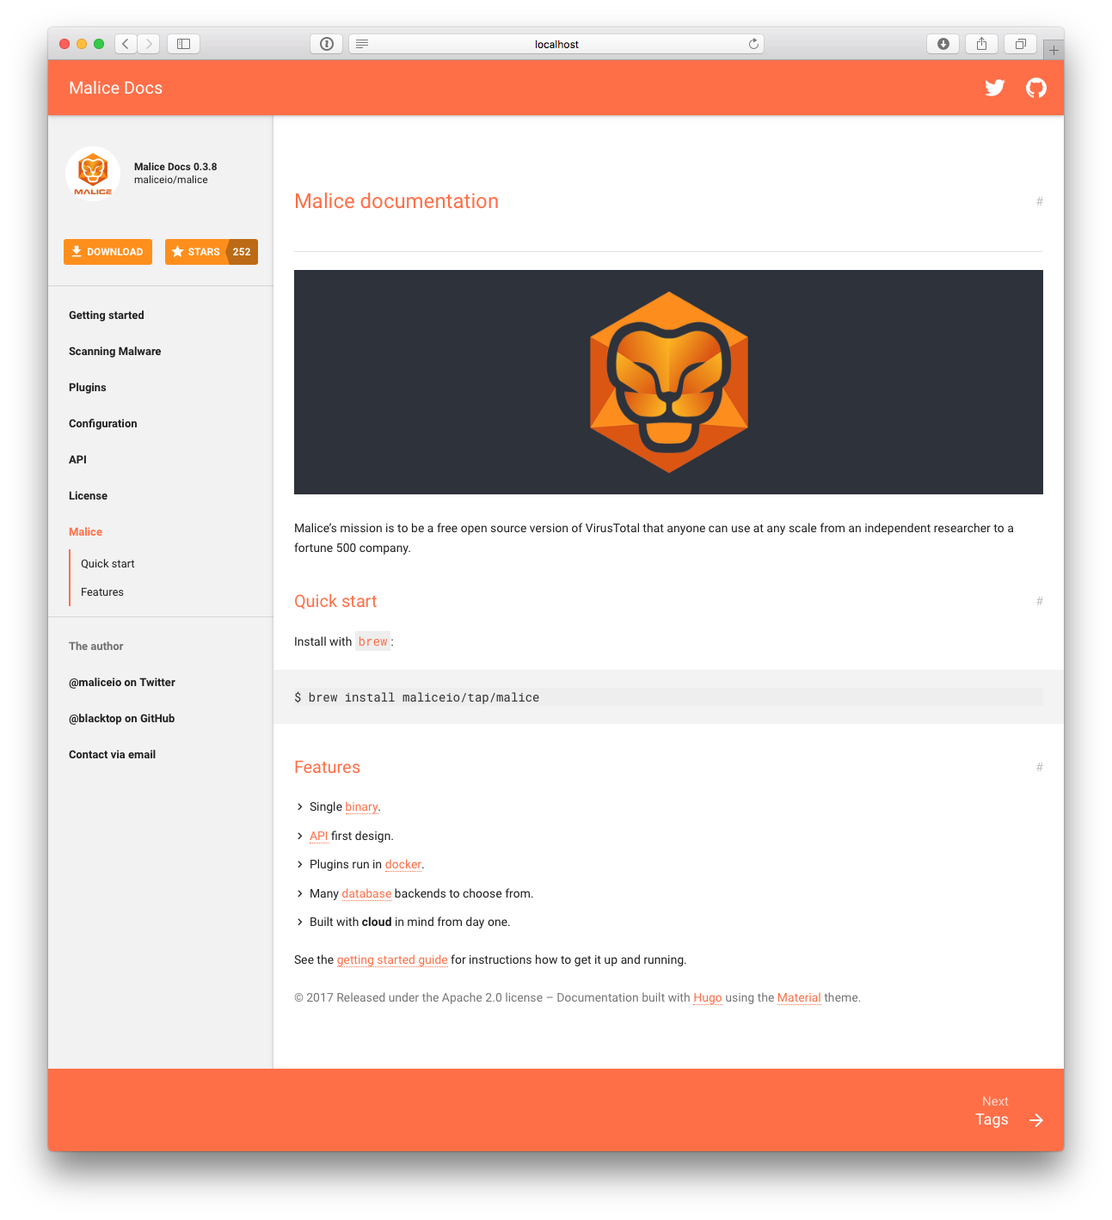
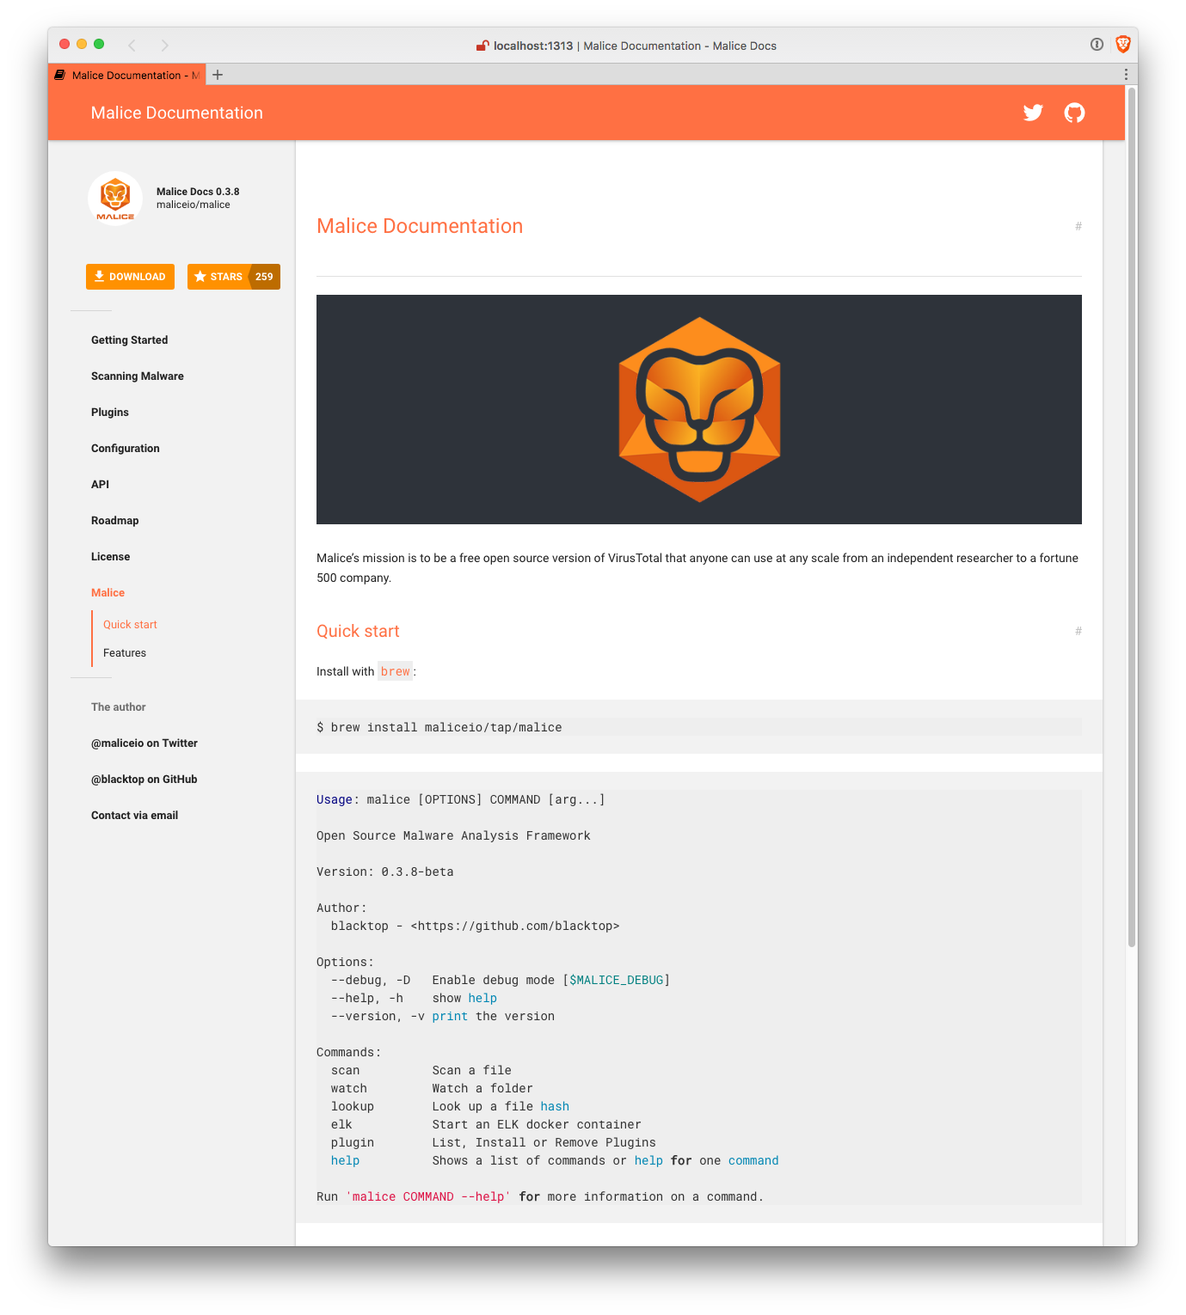
tweaks and fixes

diff --git a/static/stylesheets/palettes.css b/static/stylesheets/palettes.css
@@ -1,0 +1,1 @@
+@supports (-webkit-appearance:none){.palette-primary-red{background:#e84e40}}.palette-primary-red .footer,.palette-primary-red .header{background:#e84e40}.palette-primary-red .drawer .toc a.current,.palette-primary-red .drawer .toc a:focus,.palette-primary-red .drawer .toc a:hover{color:#e84e40}.palette-primary-red .drawer .anchor a{border-left:2px solid #e84e40}.ios.standalone .palette-primary-red .article{background:-webkit-linear-gradient(top,#fff 50%,#e84e40 0);background:linear-gradient(180deg,#fff 50%,#e84e40 0)}.palette-primary-red .article a,.palette-primary-red .article code,.palette-primary-red .article h1,.palette-primary-red .article h2{color:#e84e40}.palette-primary-red .article .headerlink{color:rgba(0,0,0,.26)}.palette-primary-red .article table th{background:#ee7a70}.palette-primary-red .results .meta{background:#e84e40}@supports (-webkit-appearance:none){.palette-primary-pink{background:#e91e63}}.palette-primary-pink .footer,.palette-primary-pink .header{background:#e91e63}.palette-primary-pink .drawer .toc a.current,.palette-primary-pink .drawer .toc a:focus,.palette-primary-pink .drawer .toc a:hover{color:#e91e63}.palette-primary-pink .drawer .anchor a{border-left:2px solid #e91e63}.ios.standalone .palette-primary-pink .article{background:-webkit-linear-gradient(top,#fff 50%,#e91e63 0);background:linear-gradient(180deg,#fff 50%,#e91e63 0)}.palette-primary-pink .article a,.palette-primary-pink .article code,.palette-primary-pink .article h1,.palette-primary-pink .article h2{color:#e91e63}.palette-primary-pink .article .headerlink{color:rgba(0,0,0,.26)}.palette-primary-pink .article table th{background:#ef568a}.palette-primary-pink .results .meta{background:#e91e63}@supports (-webkit-appearance:none){.palette-primary-purple{background:#ab47bc}}.palette-primary-purple .footer,.palette-primary-purple .header{background:#ab47bc}.palette-primary-purple .drawer .toc a.current,.palette-primary-purple .drawer .toc a:focus,.palette-primary-purple .drawer .toc a:hover{color:#ab47bc}.palette-primary-purple .drawer .anchor a{border-left:2px solid #ab47bc}.ios.standalone .palette-primary-purple .article{background:-webkit-linear-gradient(top,#fff 50%,#ab47bc 0);background:linear-gradient(180deg,#fff 50%,#ab47bc 0)}.palette-primary-purple .article a,.palette-primary-purple .article code,.palette-primary-purple .article h1,.palette-primary-purple .article h2{color:#ab47bc}.palette-primary-purple .article .headerlink{color:rgba(0,0,0,.26)}.palette-primary-purple .article table th{background:#c075cd}.palette-primary-purple .results .meta{background:#ab47bc}@supports (-webkit-appearance:none){.palette-primary-deep-purple{background:#7e57c2}}.palette-primary-deep-purple .footer,.palette-primary-deep-purple .header{background:#7e57c2}.palette-primary-deep-purple .drawer .toc a.current,.palette-primary-deep-purple .drawer .toc a:focus,.palette-primary-deep-purple .drawer .toc a:hover{color:#7e57c2}.palette-primary-deep-purple .drawer .anchor a{border-left:2px solid #7e57c2}.ios.standalone .palette-primary-deep-purple .article{background:-webkit-linear-gradient(top,#fff 50%,#7e57c2 0);background:linear-gradient(180deg,#fff 50%,#7e57c2 0)}.palette-primary-deep-purple .article a,.palette-primary-deep-purple .article code,.palette-primary-deep-purple .article h1,.palette-primary-deep-purple .article h2{color:#7e57c2}.palette-primary-deep-purple .article .headerlink{color:rgba(0,0,0,.26)}.palette-primary-deep-purple .article table th{background:#9e81d1}.palette-primary-deep-purple .results .meta{background:#7e57c2}@supports (-webkit-appearance:none){.palette-primary-indigo{background:#3f51b5}}.palette-primary-indigo .footer,.palette-primary-indigo .header{background:#3f51b5}.palette-primary-indigo .drawer .toc a.current,.palette-primary-indigo .drawer .toc a:focus,.palette-primary-indigo .drawer .toc a:hover{color:#3f51b5}.palette-primary-indigo .drawer .anchor a{border-left:2px solid #3f51b5}.ios.standalone .palette-primary-indigo .article{background:-webkit-linear-gradient(top,#fff 50%,#3f51b5 0);background:linear-gradient(180deg,#fff 50%,#3f51b5 0)}.palette-primary-indigo .article a,.palette-primary-indigo .article code,.palette-primary-indigo .article h1,.palette-primary-indigo .article h2{color:#3f51b5}.palette-primary-indigo .article .headerlink{color:rgba(0,0,0,.26)}.palette-primary-indigo .article table th{background:#6f7dc8}.palette-primary-indigo .results .meta{background:#3f51b5}@supports (-webkit-appearance:none){.palette-primary-blue{background:#5677fc}}.palette-primary-blue .footer,.palette-primary-blue .header{background:#5677fc}.palette-primary-blue .drawer .toc a.current,.palette-primary-blue .drawer .toc a:focus,.palette-primary-blue .drawer .toc a:hover{color:#5677fc}.palette-primary-blue .drawer .anchor a{border-left:2px solid #5677fc}.ios.standalone .palette-primary-blue .article{background:-webkit-linear-gradient(top,#fff 50%,#5677fc 0);background:linear-gradient(180deg,#fff 50%,#5677fc 0)}.palette-primary-blue .article a,.palette-primary-blue .article code,.palette-primary-blue .article h1,.palette-primary-blue .article h2{color:#5677fc}.palette-primary-blue .article .headerlink{color:rgba(0,0,0,.26)}.palette-primary-blue .article table th{background:#8099fd}.palette-primary-blue .results .meta{background:#5677fc}@supports (-webkit-appearance:none){.palette-primary-light-blue{background:#03a9f4}}.palette-primary-light-blue .footer,.palette-primary-light-blue .header{background:#03a9f4}.palette-primary-light-blue .drawer .toc a.current,.palette-primary-light-blue .drawer .toc a:focus,.palette-primary-light-blue .drawer .toc a:hover{color:#03a9f4}.palette-primary-light-blue .drawer .anchor a{border-left:2px solid #03a9f4}.ios.standalone .palette-primary-light-blue .article{background:-webkit-linear-gradient(top,#fff 50%,#03a9f4 0);background:linear-gradient(180deg,#fff 50%,#03a9f4 0)}.palette-primary-light-blue .article a,.palette-primary-light-blue .article code,.palette-primary-light-blue .article h1,.palette-primary-light-blue .article h2{color:#03a9f4}.palette-primary-light-blue .article .headerlink{color:rgba(0,0,0,.26)}.palette-primary-light-blue .article table th{background:#42bff7}.palette-primary-light-blue .results .meta{background:#03a9f4}@supports (-webkit-appearance:none){.palette-primary-cyan{background:#00bcd4}}.palette-primary-cyan .footer,.palette-primary-cyan .header{background:#00bcd4}.palette-primary-cyan .drawer .toc a.current,.palette-primary-cyan .drawer .toc a:focus,.palette-primary-cyan .drawer .toc a:hover{color:#00bcd4}.palette-primary-cyan .drawer .anchor a{border-left:2px solid #00bcd4}.ios.standalone .palette-primary-cyan .article{background:-webkit-linear-gradient(top,#fff 50%,#00bcd4 0);background:linear-gradient(180deg,#fff 50%,#00bcd4 0)}.palette-primary-cyan .article a,.palette-primary-cyan .article code,.palette-primary-cyan .article h1,.palette-primary-cyan .article h2{color:#00bcd4}.palette-primary-cyan .article .headerlink{color:rgba(0,0,0,.26)}.palette-primary-cyan .article table th{background:#40cddf}.palette-primary-cyan .results .meta{background:#00bcd4}@supports (-webkit-appearance:none){.palette-primary-teal{background:#009688}}.palette-primary-teal .footer,.palette-primary-teal .header{background:#009688}.palette-primary-teal .drawer .toc a.current,.palette-primary-teal .drawer .toc a:focus,.palette-primary-teal .drawer .toc a:hover{color:#009688}.palette-primary-teal .drawer .anchor a{border-left:2px solid #009688}.ios.standalone .palette-primary-teal .article{background:-webkit-linear-gradient(top,#fff 50%,#009688 0);background:linear-gradient(180deg,#fff 50%,#009688 0)}.palette-primary-teal .article a,.palette-primary-teal .article code,.palette-primary-teal .article h1,.palette-primary-teal .article h2{color:#009688}.palette-primary-teal .article .headerlink{color:rgba(0,0,0,.26)}.palette-primary-teal .article table th{background:#40b0a6}.palette-primary-teal .results .meta{background:#009688}@supports (-webkit-appearance:none){.palette-primary-green{background:#259b24}}.palette-primary-green .footer,.palette-primary-green .header{background:#259b24}.palette-primary-green .drawer .toc a.current,.palette-primary-green .drawer .toc a:focus,.palette-primary-green .drawer .toc a:hover{color:#259b24}.palette-primary-green .drawer .anchor a{border-left:2px solid #259b24}.ios.standalone .palette-primary-green .article{background:-webkit-linear-gradient(top,#fff 50%,#259b24 0);background:linear-gradient(180deg,#fff 50%,#259b24 0)}.palette-primary-green .article a,.palette-primary-green .article code,.palette-primary-green .article h1,.palette-primary-green .article h2{color:#259b24}.palette-primary-green .article .headerlink{color:rgba(0,0,0,.26)}.palette-primary-green .article table th{background:#5cb45b}.palette-primary-green .results .meta{background:#259b24}@supports (-webkit-appearance:none){.palette-primary-light-green{background:#7cb342}}.palette-primary-light-green .footer,.palette-primary-light-green .header{background:#7cb342}.palette-primary-light-green .drawer .toc a.current,.palette-primary-light-green .drawer .toc a:focus,.palette-primary-light-green .drawer .toc a:hover{color:#7cb342}.palette-primary-light-green .drawer .anchor a{border-left:2px solid #7cb342}.ios.standalone .palette-primary-light-green .article{background:-webkit-linear-gradient(top,#fff 50%,#7cb342 0);background:linear-gradient(180deg,#fff 50%,#7cb342 0)}.palette-primary-light-green .article a,.palette-primary-light-green .article code,.palette-primary-light-green .article h1,.palette-primary-light-green .article h2{color:#7cb342}.palette-primary-light-green .article .headerlink{color:rgba(0,0,0,.26)}.palette-primary-light-green .article table th{background:#9dc671}.palette-primary-light-green .results .meta{background:#7cb342}@supports (-webkit-appearance:none){.palette-primary-lime{background:#c0ca33}}.palette-primary-lime .footer,.palette-primary-lime .header{background:#c0ca33}.palette-primary-lime .drawer .toc a.current,.palette-primary-lime .drawer .toc a:focus,.palette-primary-lime .drawer .toc a:hover{color:#c0ca33}.palette-primary-lime .drawer .anchor a{border-left:2px solid #c0ca33}.ios.standalone .palette-primary-lime .article{background:-webkit-linear-gradient(top,#fff 50%,#c0ca33 0);background:linear-gradient(180deg,#fff 50%,#c0ca33 0)}.palette-primary-lime .article a,.palette-primary-lime .article code,.palette-primary-lime .article h1,.palette-primary-lime .article h2{color:#c0ca33}.palette-primary-lime .article .headerlink{color:rgba(0,0,0,.26)}.palette-primary-lime .article table th{background:#d0d766}.palette-primary-lime .results .meta{background:#c0ca33}@supports (-webkit-appearance:none){.palette-primary-yellow{background:#f9a825}}.palette-primary-yellow .footer,.palette-primary-yellow .header{background:#f9a825}.palette-primary-yellow .drawer .toc a.current,.palette-primary-yellow .drawer .toc a:focus,.palette-primary-yellow .drawer .toc a:hover{color:#f9a825}.palette-primary-yellow .drawer .anchor a{border-left:2px solid #f9a825}.ios.standalone .palette-primary-yellow .article{background:-webkit-linear-gradient(top,#fff 50%,#f9a825 0);background:linear-gradient(180deg,#fff 50%,#f9a825 0)}.palette-primary-yellow .article a,.palette-primary-yellow .article code,.palette-primary-yellow .article h1,.palette-primary-yellow .article h2{color:#f9a825}.palette-primary-yellow .article .headerlink{color:rgba(0,0,0,.26)}.palette-primary-yellow .article table th{background:#fbbe5c}.palette-primary-yellow .results .meta{background:#f9a825}@supports (-webkit-appearance:none){.palette-primary-amber{background:#fe8f00}}.palette-primary-amber .footer,.palette-primary-amber .header{background:#fe8f00}.palette-primary-amber .drawer .toc a.current,.palette-primary-amber .drawer .toc a:focus,.palette-primary-amber .drawer .toc a:hover{color:#fe8f00}.palette-primary-amber .drawer .anchor a{border-left:2px solid #fe8f00}.ios.standalone .palette-primary-amber .article{background:-webkit-linear-gradient(top,#fff 50%,#fe8f00 0);background:linear-gradient(180deg,#fff 50%,#fe8f00 0)}.palette-primary-amber .article a,.palette-primary-amber .article code,.palette-primary-amber .article h1,.palette-primary-amber .article h2{color:#fe8f00}.palette-primary-amber .article .headerlink{color:rgba(0,0,0,.26)}.palette-primary-amber .article table th{background:#ffc640}.palette-primary-amber .results .meta{background:#fe8f00}@supports (-webkit-appearance:none){.palette-primary-orange{background:#fe8f00}}.palette-primary-orange .footer,.palette-primary-orange .header{background:#fe8f00}.palette-primary-orange .drawer .toc a.current,.palette-primary-orange .drawer .toc a:focus,.palette-primary-orange .drawer .toc a:hover{color:#fe8f00}.palette-primary-orange .drawer .anchor a{border-left:2px solid #fe8f00}.ios.standalone .palette-primary-orange .article{background:-webkit-linear-gradient(top,#fff 50%,#fe8f00 0);background:linear-gradient(180deg,#fff 50%,#fe8f00 0)}.palette-primary-orange .article a,.palette-primary-orange .article code,.palette-primary-orange .article h1,.palette-primary-orange .article h2{color:#fe8f00}.palette-primary-orange .article .headerlink{color:rgba(0,0,0,.26)}.palette-primary-orange .article table th{background:#fca940}.palette-primary-orange .results .meta{background:#fe8f00}@supports (-webkit-appearance:none){.palette-primary-deep-orange{background:#dc5801}}.palette-primary-deep-orange .footer,.palette-primary-deep-orange .header{background:#dc5801}.palette-primary-deep-orange .drawer .toc a.current,.palette-primary-deep-orange .drawer .toc a:focus,.palette-primary-deep-orange .drawer .toc a:hover{color:#dc5801}.palette-primary-deep-orange .drawer .anchor a{border-left:2px solid #dc5801}.ios.standalone .palette-primary-deep-orange .article{background:-webkit-linear-gradient(top,#fff 50%,#dc5801 0);background:linear-gradient(180deg,#fff 50%,#dc5801 0)}.palette-primary-deep-orange .article a,.palette-primary-deep-orange .article code,.palette-primary-deep-orange .article h1,.palette-primary-deep-orange .article h2{color:#dc5801}.palette-primary-deep-orange .article .headerlink{color:rgba(0,0,0,.26)}.palette-primary-deep-orange .article table th{background:#ff9472}.palette-primary-deep-orange .results .meta{background:#dc5801}@supports (-webkit-appearance:none){.palette-primary-brown{background:#795548}}.palette-primary-brown .footer,.palette-primary-brown .header{background:#795548}.palette-primary-brown .drawer .toc a.current,.palette-primary-brown .drawer .toc a:focus,.palette-primary-brown .drawer .toc a:hover{color:#795548}.palette-primary-brown .drawer .anchor a{border-left:2px solid #795548}.ios.standalone .palette-primary-brown .article{background:-webkit-linear-gradient(top,#fff 50%,#795548 0);background:linear-gradient(180deg,#fff 50%,#795548 0)}.palette-primary-brown .article a,.palette-primary-brown .article code,.palette-primary-brown .article h1,.palette-primary-brown .article h2{color:#795548}.palette-primary-brown .article .headerlink{color:rgba(0,0,0,.26)}.palette-primary-brown .article table th{background:#9b8076}.palette-primary-brown .results .meta{background:#795548}@supports (-webkit-appearance:none){.palette-primary-grey{background:#757575}}.palette-primary-grey .footer,.palette-primary-grey .header{background:#757575}.palette-primary-grey .drawer .toc a.current,.palette-primary-grey .drawer .toc a:focus,.palette-primary-grey .drawer .toc a:hover{color:#757575}.palette-primary-grey .drawer .anchor a{border-left:2px solid #757575}.ios.standalone .palette-primary-grey .article{background:-webkit-linear-gradient(top,#fff 50%,#757575 0);background:linear-gradient(180deg,#fff 50%,#757575 0)}.palette-primary-grey .article a,.palette-primary-grey .article code,.palette-primary-grey .article h1,.palette-primary-grey .article h2{color:#757575}.palette-primary-grey .article .headerlink{color:rgba(0,0,0,.26)}.palette-primary-grey .article table th{background:#989898}.palette-primary-grey .results .meta{background:#757575}@supports (-webkit-appearance:none){.palette-primary-blue-grey{background:#546e7a}}.palette-primary-blue-grey .footer,.palette-primary-blue-grey .header{background:#546e7a}.palette-primary-blue-grey .drawer .toc a.current,.palette-primary-blue-grey .drawer .toc a:focus,.palette-primary-blue-grey .drawer .toc a:hover{color:#546e7a}.palette-primary-blue-grey .drawer .anchor a{border-left:2px solid #546e7a}.ios.standalone .palette-primary-blue-grey .article{background:-webkit-linear-gradient(top,#fff 50%,#546e7a 0);background:linear-gradient(180deg,#fff 50%,#546e7a 0)}.palette-primary-blue-grey .article a,.palette-primary-blue-grey .article code,.palette-primary-blue-grey .article h1,.palette-primary-blue-grey .article h2{color:#546e7a}.palette-primary-blue-grey .article .headerlink{color:rgba(0,0,0,.26)}.palette-primary-blue-grey .article table th{background:#7f929b}.palette-primary-blue-grey .results .meta{background:#546e7a}.palette-accent-red .article a:focus,.palette-accent-red .article a:hover{color:#ff2d6f}.palette-accent-red .repo a{background:#ff2d6f}.palette-accent-pink .article a:focus,.palette-accent-pink .article a:hover{color:#f50057}.palette-accent-pink .repo a{background:#f50057}.palette-accent-purple .article a:focus,.palette-accent-purple .article a:hover{color:#e040fb}.palette-accent-purple .repo a{background:#e040fb}.palette-accent-deep-purple .article a:focus,.palette-accent-deep-purple .article a:hover{color:#7c4dff}.palette-accent-deep-purple .repo a{background:#7c4dff}.palette-accent-indigo .article a:focus,.palette-accent-indigo .article a:hover{color:#536dfe}.palette-accent-indigo .repo a{background:#536dfe}.palette-accent-blue .article a:focus,.palette-accent-blue .article a:hover{color:#6889ff}.palette-accent-blue .repo a{background:#6889ff}.palette-accent-light-blue .article a:focus,.palette-accent-light-blue .article a:hover{color:#0091ea}.palette-accent-light-blue .repo a{background:#0091ea}.palette-accent-cyan .article a:focus,.palette-accent-cyan .article a:hover{color:#00b8d4}.palette-accent-cyan .repo a{background:#00b8d4}.palette-accent-teal .article a:focus,.palette-accent-teal .article a:hover{color:#00bfa5}.palette-accent-teal .repo a{background:#00bfa5}.palette-accent-green .article a:focus,.palette-accent-green .article a:hover{color:#12c700}.palette-accent-green .repo a{background:#12c700}.palette-accent-light-green .article a:focus,.palette-accent-light-green .article a:hover{color:#64dd17}.palette-accent-light-green .repo a{background:#64dd17}.palette-accent-lime .article a:focus,.palette-accent-lime .article a:hover{color:#aeea00}.palette-accent-lime .repo a{background:#aeea00}.palette-accent-yellow .article a:focus,.palette-accent-yellow .article a:hover{color:#ffd600}.palette-accent-yellow .repo a{background:#ffd600}.palette-accent-amber .article a:focus,.palette-accent-amber .article a:hover{color:#ffab00}.palette-accent-amber .repo a{background:#ffab00}.palette-accent-orange .article a:focus,.palette-accent-orange .article a:hover{color:#fe8f00}.palette-accent-orange .repo a{background:#fe8f00}.palette-accent-deep-orange .article a:focus,.palette-accent-deep-orange .article a:hover{color:#dc5801}.palette-accent-deep-orange .repo a{background:#dc5801}@media only screen and (max-width:959px){.palette-primary-red .project{background:#e84e40}.palette-primary-pink .project{background:#e91e63}.palette-primary-purple .project{background:#ab47bc}.palette-primary-deep-purple .project{background:#7e57c2}.palette-primary-indigo .project{background:#3f51b5}.palette-primary-blue .project{background:#5677fc}.palette-primary-light-blue .project{background:#03a9f4}.palette-primary-cyan .project{background:#00bcd4}.palette-primary-teal .project{background:#009688}.palette-primary-green .project{background:#259b24}.palette-primary-light-green .project{background:#7cb342}.palette-primary-lime .project{background:#c0ca33}.palette-primary-yellow .project{background:#f9a825}.palette-primary-amber .project{background:#fe8f00}.palette-primary-orange .project{background:#fe8f00}.palette-primary-deep-orange .project{background:#dc5801}.palette-primary-brown .project{background:#795548}.palette-primary-grey .project{background:#757575}.palette-primary-blue-grey .project{background:#546e7a}}

diff --git a/layouts/partials/footer.html b/layouts/partials/footer.html
@@ -1,0 +1,74 @@
+{{ if .IsPage }}
+{{ if .Prev | or .Next }}
+<nav class="pagination" aria-label="Footer">
+  <div class="previous">
+  {{ if .Prev }}
+      <a href="{{ .Prev.Permalink }}" title="{{ .Prev.Title }}">
+        <span class="direction">
+          Previous
+        </span>
+        <div class="page">
+          <div class="button button-previous" role="button" aria-label="Previous">
+            <i class="icon icon-back"></i>
+          </div>
+          <div class="stretch">
+            <div class="title">
+              {{ .Prev.Title }}
+            </div>
+          </div>
+        </div>
+      </a>
+  {{ end }}
+  </div>
+
+  <div class="next">
+  {{ if .Next }}
+      <a href="{{ .Next.Permalink }}" title="{{ .Next.Title }}">
+        <span class="direction">
+          Next
+        </span>
+        <div class="page">
+          <div class="stretch">
+            <div class="title">
+              {{ .Next.Title }}
+            </div>
+          </div>
+          <div class="button button-next" role="button" aria-label="Next">
+            <i class="icon icon-forward"></i>
+          </div>
+        </div>
+      </a>
+  {{ end }}
+  </div>
+</nav>
+{{ end }}
+{{ end }}
+
+{{ if .IsHome }}
+{{ if gt (len .Site.Pages) 2 }}
+<nav class="pagination" aria-label="Footer">
+  <div class="previous">
+  </div>
+
+  {{ $title := (index (.Site.Pages.ByWeight) 1).Title  }}
+  {{ $permalink := (index (.Site.Pages.ByWeight) 1).Permalink }}
+  <div class="next">
+      <a href="{{ $permalink }}" title="{{ $title }}">
+        <span class="direction">
+          Next
+        </span>
+        <div class="page">
+          <div class="stretch">
+            <div class="title">
+              {{ $title }}
+            </div>
+          </div>
+          <div class="button button-next" role="button" aria-label="Next">
+            <i class="icon icon-forward"></i>
+          </div>
+        </div>
+      </a>
+  </div>
+</nav>
+{{ end }}
+{{ end }}

diff --git a/content/plugins/index.md b/content/plugins/index.md
@@ -1,7 +1,6 @@
 ---
-date: 2017-07-01T20:52:57-06:00
 title: Plugins
-weight: 30
+weight: 40
 ---
 
 ## Docker  
@@ -24,7 +23,7 @@ $ malice plugin list --all --detail
 ```
 
 | Name          | Description                               | Enabled | Image                | Category | Mime                   |
-|---------------|-------------------------------------------|---------|----------------------|----------|------------------------|
+|:--------------|:------------------------------------------|:--------|:---------------------|:---------|:-----------------------|
 | nsrl          | NSRL Database Hash Search                 | true    | malice/nsrl          | intel    | hash                   |
 | virustotal    | VirusTotal - files scan and hash lookup   | true    | malice/virustotal    | intel    | hash                   |
 | totalhash     | #totalhash - hash lookup                  | true    | malice/totalhash     | intel    | hash                   |

diff --git a/content/roadmap/index.md b/content/roadmap/index.md
@@ -1,7 +1,6 @@
 ---
-date: 2016-03-09T20:08:11+01:00
 title: Roadmap
-weight: 30
+weight: 70
 ---
 
 Quo vadis? The port of the original [Material theme](https://github.com/squidfunk/mkdocs-material) has replicated nearly all of its features. A few are still missing but I've good news: the Hugo community is actively working on this issues. Maybe with the next release of Hugo we can abandon this list. Stay tuned.

diff --git a/content/api/index.md b/content/api/index.md
@@ -1,7 +1,6 @@
 ---
-date: 2017-07-01T22:06:37-06:00
 title: API
-weight: 30
+weight: 60
 ---
 
 The Malice HTTP API gives you full access to Malice via HTTP. Every aspect of Malice can be controlled via this API. The Malice CLI uses the HTTP API to access Malice.

diff --git a/content/license/index.md b/content/license/index.md
@@ -1,7 +1,6 @@
 ---
-date: 2017-07-01T18:48:46-06:00
 title: License
-weight: 40
+weight: 80
 ---
 
 Copyright (c) 2013-2017 Malice Graphics and Logos <https://github.com/blacktop><br>

diff --git a/content/getting-started/index.md b/content/getting-started/index.md
@@ -1,7 +1,6 @@
 ---
-date: 2016-03-09T00:11:02+01:00
-title: Getting started
-weight: 10
+title: Getting Started
+weight: 20
 ---
 
 ## Installation

diff --git a/content/index.md b/content/index.md
@@ -1,6 +1,5 @@
 ---
-date: 2017-07-01T18:48:46-06:00
-title: Malice documentation
+title: Malice Documentation
 type: index
 weight: 0
 ---

diff --git a/content/scanning-malware/index.md b/content/scanning-malware/index.md
@@ -1,7 +1,6 @@
 ---
-date: 2017-07-01T20:52:57-06:00
 title: Scanning Malware
-weight: 20
+weight: 30
 ---
 
 #### Scan some *malware*

diff --git a/content/configuration/index.md b/content/configuration/index.md
@@ -1,7 +1,6 @@
 ---
 title: "Configuration"
-date: 2017-07-01T21:40:14-06:00
-weight: 40
+weight: 50
 ---
 
 ## Database
